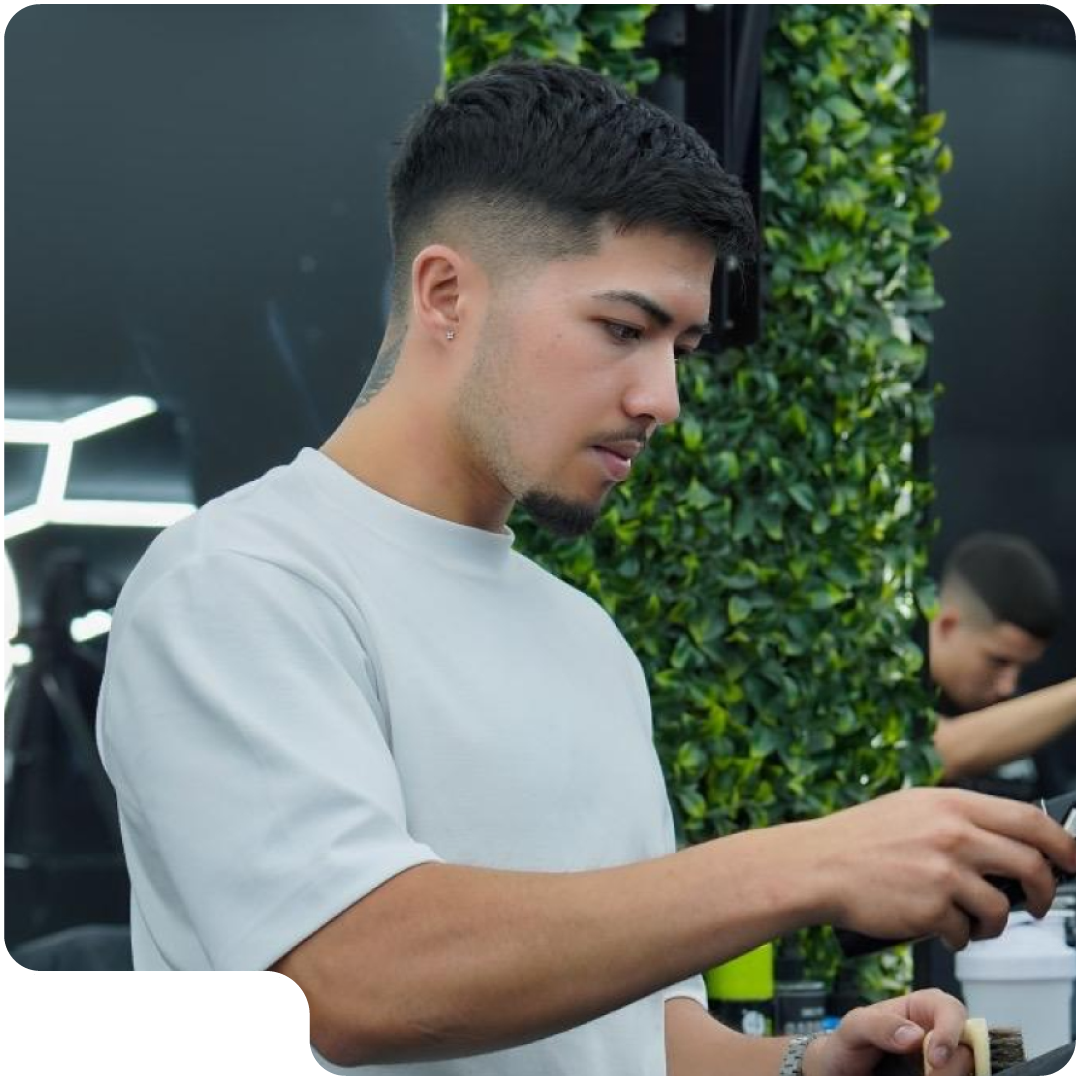
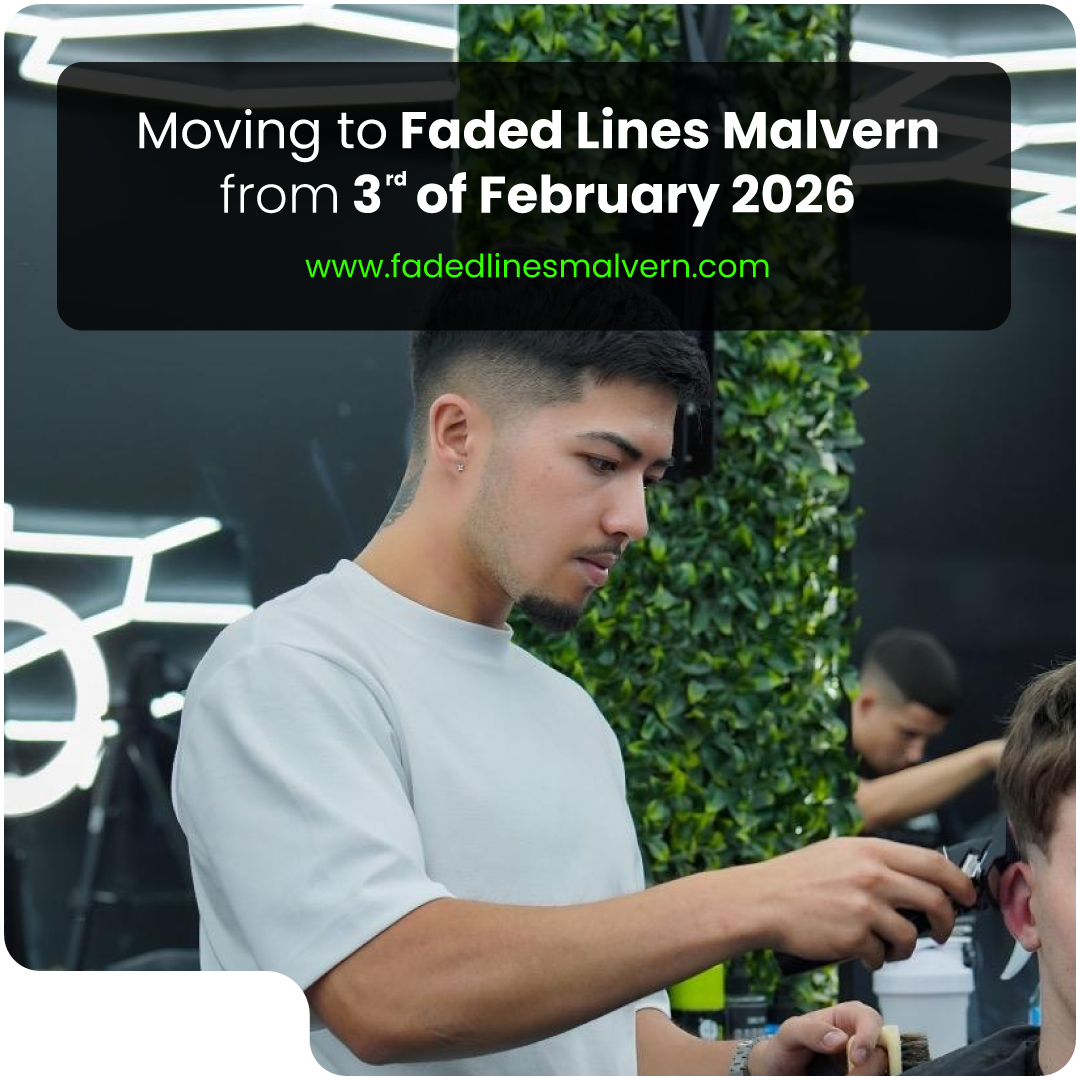
adjust josh barber

diff --git a/src/components/book/BookList.tsx b/src/components/book/BookList.tsx
@@ -19,7 +19,7 @@ import Jay from "@/assets/web/barbers/booking-list/jay-book.svg";
 import Wyatt from "@/assets/web/barbers/booking-list/wyatt-book.svg";
 import Emman from "@/assets/web/barbers/booking-list/emman-book.svg";
 import Christos from "@/assets/web/barbers/booking-list/christos-book.svg";
-import Josh from "@/assets/web/barbers/booking-list/josh-book.png";
+import Josh from "@/assets/web/barbers/booking-list/josh-book.jpg";
 import Niko from "@/assets/web/barbers/booking-list/niko-book.svg";
 import Noah from "@/assets/web/barbers/booking-list/noah-book.png";
 import Amir from "@/assets/web/barbers/booking-list/amir-book.svg";
